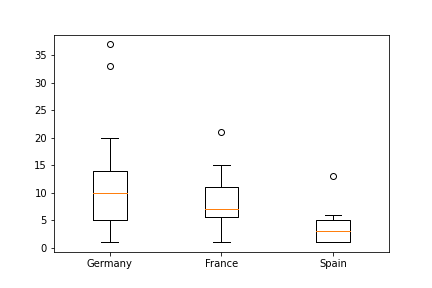
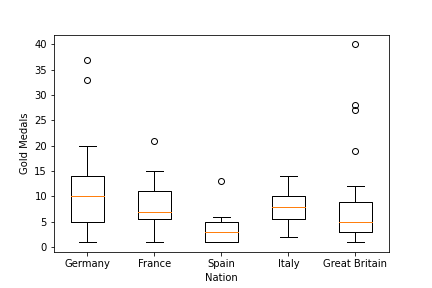
making changes to graphs
Made changes to the grpahs to make analysis and write up easier

diff --git a/BoxScript.py b/BoxScript.py
@@ -41,10 +41,18 @@ def createBox (teams):
 #     use the teams list as our labels.
 # =============================================================================   
     plt.boxplot(results, labels = labels)
+    plt.xlabel('Nation')
+    plt.ylabel('Gold Medals')
     plt.savefig('Boxplot.png')
     plt.show()
 
 #the teams we want to plot on our boxplot
-teams = ['Germany', 'France', 'Spain']
+teams = ['Germany', 'France', 'Spain', 'Italy', 'Great Britain']
+
+temp = df[df['Team'] == 'Great Britain']
+temp = temp.drop(['Name'], axis = 1)
+temp = temp.groupby(['Year', 'Team', 'Event']).sum(numeric_only = True)
+temp['Medal'] = 1
+temp = temp.groupby(['Year']).sum(numeric_only = True)
 
 createBox(teams)

diff --git a/PieScript.py b/PieScript.py
@@ -39,12 +39,16 @@ def namesToPie(names, df):
         pie_df = pd.concat([pie_df, newRow], axis=0, ignore_index=True)
             
     fig, ax = plt.subplots()
-    ax.pie(pie_df['Count'], labels = pie_df['Name'], explode=[0.1,0,0,0,0])
+    ax.pie(pie_df['Count'], labels = pie_df['Name'], explode=[0.1,0,0,0,0], autopct='%1.1f%%')
+    print(pie_df)
     plt.savefig('pieplot.png')
     plt.show()
         
 #the list of names we want to use for our pie chart
 namesToPlot = ['Michael Fred Phelps, II', 'Italy', 'France', 'Germany', 'Spain']
+
+leets_df = phelps_df.drop(['Team', 'Event'], axis = 1)
+leets_df = phelps_df.groupby(['Name']).sum()
 
 namesToPie(namesToPlot, phelps_df)
             
